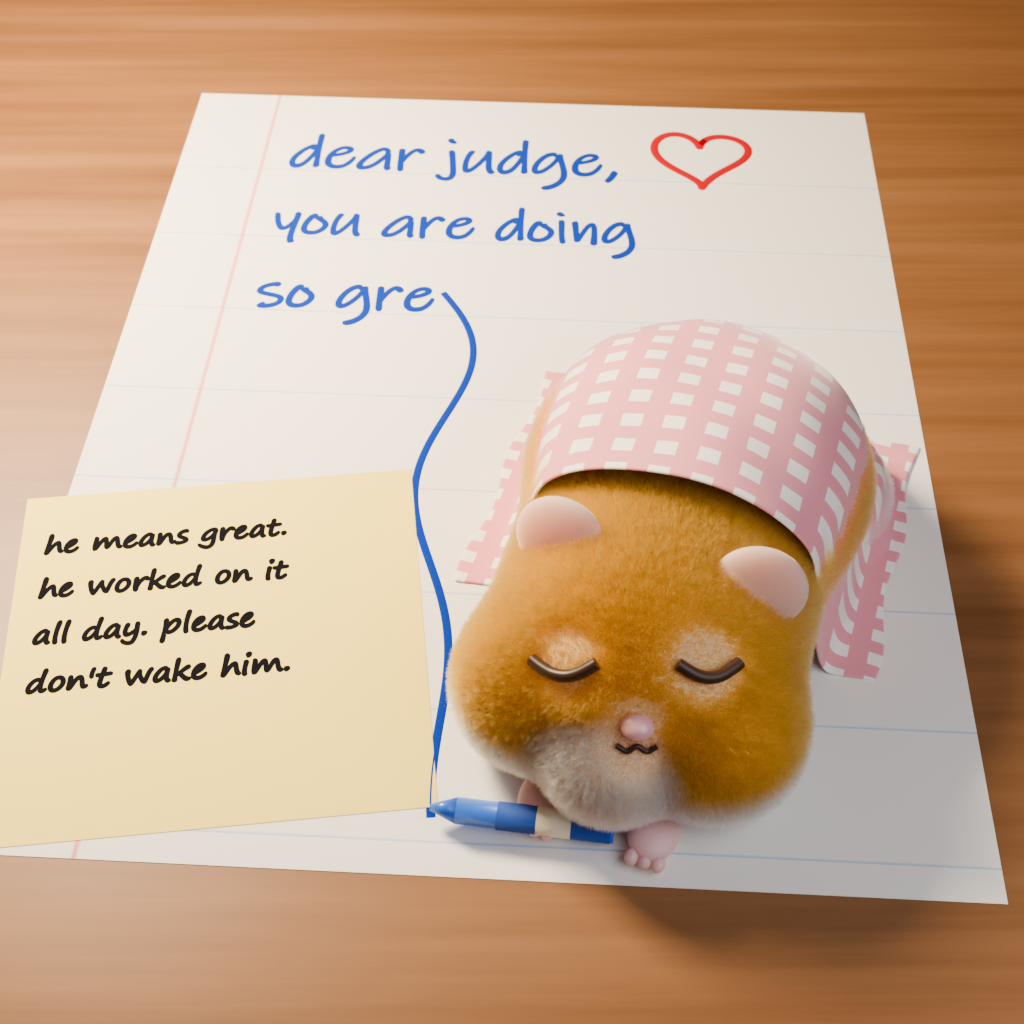
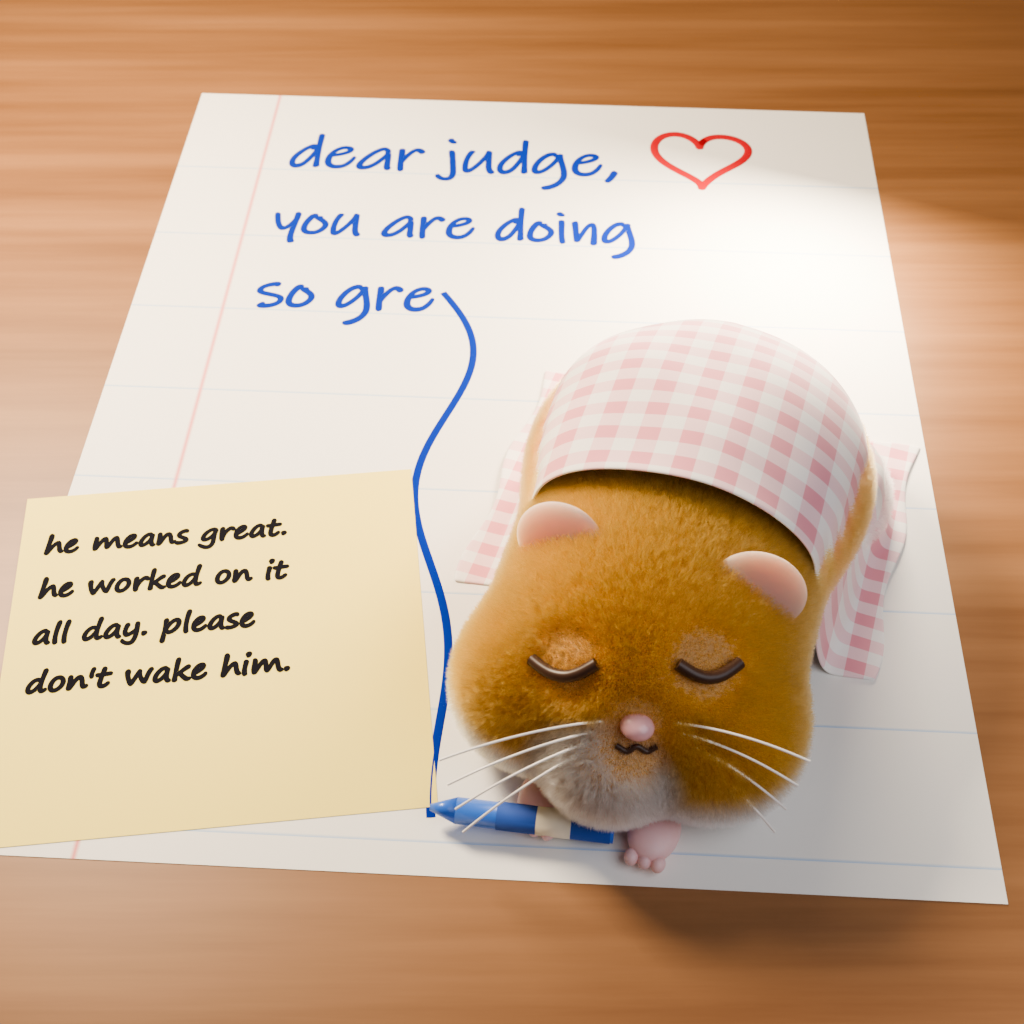
v3: whiskers, a true gingham check, matte translucent ears, warm rim light

diff --git a/render/scene.py b/render/scene.py
@@ -308,14 +308,17 @@ scene = bpy.context.scene
 M_DESK = new_material("Desk", (0.33, 0.17, 0.08), rough=0.45)
 M_PAPER = new_material("Paper", (0.93, 0.91, 0.86), rough=0.85, bump=0.03, bump_scale=400)
 M_STICKY = new_material("Sticky", (0.98, 0.83, 0.25), rough=0.8, bump=0.02, bump_scale=300)
-M_BLUE = crayon_material("BlueCrayon", (0.015, 0.06, 0.42), gaps=0.28)
+M_BLUE = crayon_material("BlueCrayon", (0.008, 0.035, 0.34), gaps=0.24)
 M_PENCIL = crayon_material("Pencil", (0.012, 0.012, 0.018), grain=260.0, gaps=0.08)
 M_RED_LINE = new_material("Margin", (0.85, 0.25, 0.25), rough=0.8)
 M_PINK = new_material("PawPink", (0.95, 0.55, 0.55), rough=0.45, sss=0.35)
-M_EAR = new_material("Ear", (0.80, 0.47, 0.40), rough=0.75, sss=0.6, sheen=0.8, bump=0.05, bump_scale=200)
+M_EAR = new_material("Ear", (0.58, 0.36, 0.33), rough=0.85, sss=0.8, sheen=1.0, bump=0.08, bump_scale=300)
+principled_of(M_EAR).inputs["Sheen Tint"].default_value = (0.9, 0.75, 0.6, 1)
+principled_of(M_EAR).inputs["Specular IOR Level"].default_value = 0.2
+M_WHISKER = new_material("Whisker", (0.95, 0.93, 0.9), rough=0.3)
 M_NOSE = new_material("Nose", (0.85, 0.42, 0.45), rough=0.3, sss=0.3, coat=0.4)
 M_LID = new_material("Lid", (0.06, 0.03, 0.02), rough=0.4)
-M_SKIN = new_material("Skin", (0.80, 0.52, 0.30), rough=0.6, sss=0.3)
+M_SKIN = new_material("Skin", (0.50, 0.27, 0.10), rough=0.7, sss=0.15)
 M_WAX_BLUE = new_material("WaxBlue", (0.05, 0.18, 0.72), rough=0.35, coat=0.2)
 M_WRAP_BLUE = new_material("WrapBlue", (0.03, 0.10, 0.45), rough=0.7)
 M_WAX_RED = new_material("WaxRed", (0.75, 0.06, 0.05), rough=0.35, coat=0.2)
@@ -487,9 +490,24 @@ for k in range(13):
     mouth.append(tuple(q + nn * 0.005))
 child(curve_object("Mouth", mouth, 0.006, M_LID))
 keep.append((face_hit(0.0, -0.075)[0], 0.05))
+# whiskers: fine pale hairs fanning out from either side of the muzzle, drooping a little in his sleep
+for side in (-1, 1):
+    for k in range(4):
+        root, rn = face_hit(side * (0.055 + 0.012 * k), -0.03 - 0.018 * k)
+        root = root - rn * 0.01
+        length = 0.30 - 0.025 * k
+        spread = 0.10 - 0.06 * k
+        pts = []
+        for s_ in range(9):
+            t = s_ / 8
+            p = (root + RIGHT * side * length * t + Vector((0, -0.10, 0)) * t
+                 + Vector((0, 0, 1)) * (spread * t - 0.09 * t * t))
+            pts.append(tuple(p))
+        w = child(curve_object(f"Whisker{side}{k}", pts, 0.0028, M_WHISKER))
+        w.data.bevel_resolution = 1
 # ears: round and pink, up on the head
 for side in (-1, 1):
-    child(sphere(f"Ear{side}", (side * 0.21, -0.12, 0.43), (0.10, 0.035, 0.095), M_EAR,
+    child(sphere(f"Ear{side}", (side * 0.21, -0.12, 0.42), (0.10, 0.022, 0.09), M_EAR,
                  rot=(math.radians(-20), side * math.radians(25), 0)))
 # front paws, tucked by the chin, curled round the crayon
 for side in (-1, 1):
@@ -589,7 +607,11 @@ gramp.color_ramp.elements[1].position = 0.75
 gramp.color_ramp.elements[1].color = (0.86, 0.36, 0.42, 1)
 mid_e = gramp.color_ramp.elements.new(0.25)
 mid_e.color = (0.95, 0.68, 0.70, 1)
-gnt.links.new(gsum.outputs["Value"], gramp.inputs["Fac"])
+ghalf = node(gnt, "ShaderNodeMath", (-250, 100))  # 0 white, 0.5 one stripe, 1 where two stripes cross
+ghalf.operation = "MULTIPLY"
+ghalf.inputs[1].default_value = 0.5
+gnt.links.new(gsum.outputs["Value"], ghalf.inputs[0])
+gnt.links.new(ghalf.outputs["Value"], gramp.inputs["Fac"])
 gnt.links.new(gramp.outputs["Color"], principled_of(M_GINGHAM).inputs["Base Color"])
 
 BX, BY0, BY1, NX, NY = 0.5, 0.02, 0.78, 60, 70
@@ -721,6 +743,14 @@ fill.size = 5.0
 fill.color = (0.85, 0.9, 1.0)
 fo = link(bpy.data.objects.new("Fill", fill))
 fo.location = (3.5, -4.0, 5.0)
+# a warm rim from behind him, so the fur edges glow against the paper
+rim = bpy.data.lights.new("Rim", "AREA")
+rim.energy = 160
+rim.size = 0.8
+rim.color = (1.0, 0.85, 0.65)
+ro = link(bpy.data.objects.new("Rim", rim))
+ro.location = HAM_LOC + Vector((0.9, 2.4, 1.0))
+ro.rotation_euler = (ro.location - HAM_LOC).to_track_quat("Z", "Y").to_euler()
 fo.rotation_euler = (fo.location - target).to_track_quat("Z", "Y").to_euler()
 world = bpy.data.worlds.new("World")
 world.use_nodes = True
@@ -752,6 +782,7 @@ for look in ("AgX - Medium High Contrast", "AgX - Base Contrast"):
         break
     except TypeError:
         pass
+scene.view_settings.exposure = -0.15
 scene.render.image_settings.file_format = "PNG"
 scene.render.image_settings.color_mode = "RGB"
 scene.render.image_settings.compression = 100
